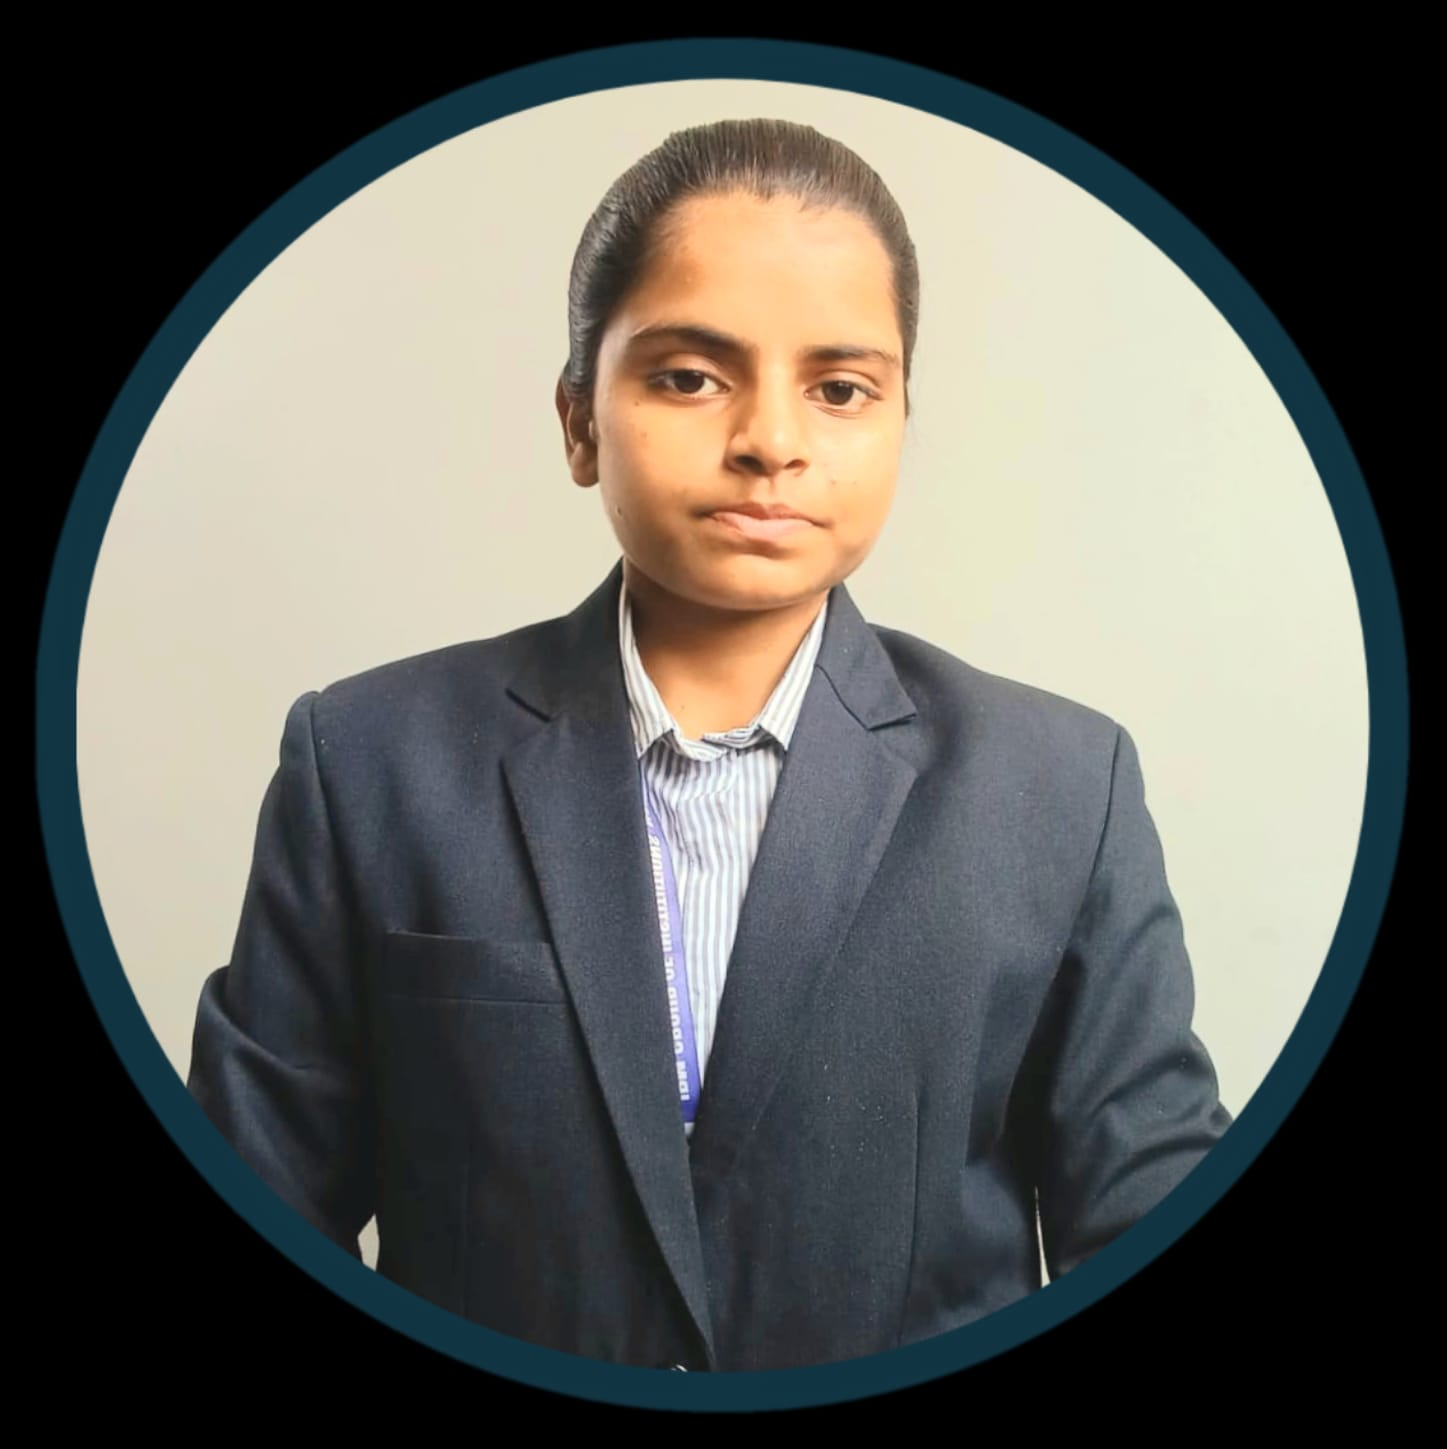
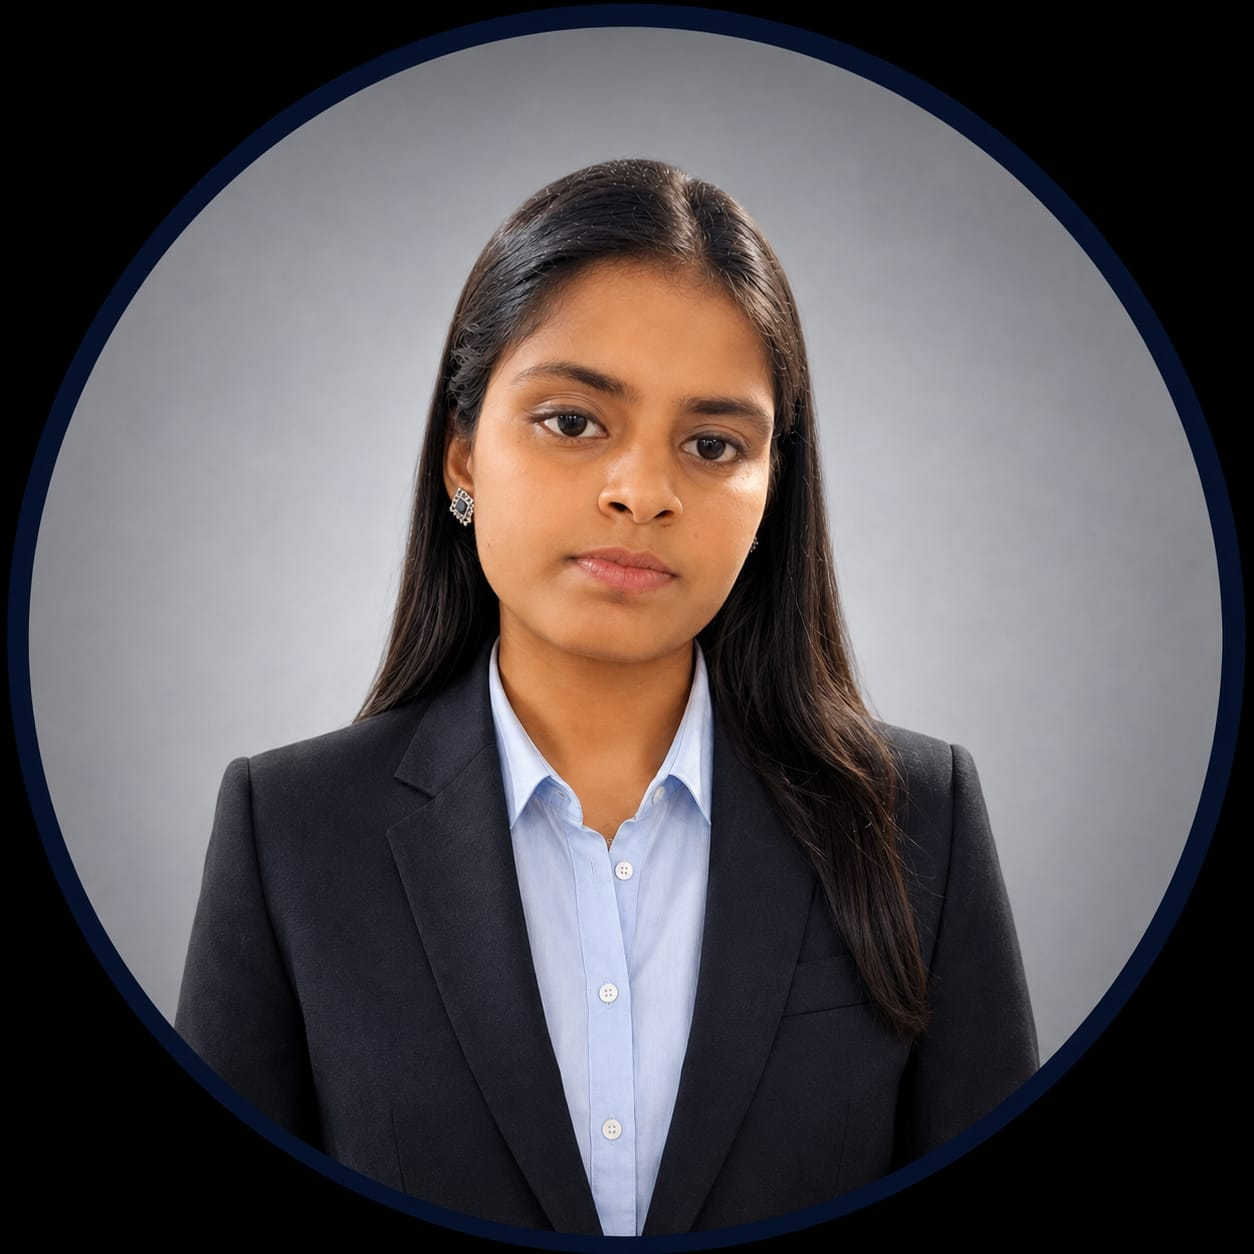
Add Coming Soon status to projects

diff --git a/templates/index.html b/templates/index.html
@@ -237,6 +237,7 @@ content="https://your-portfolio-url.onrender.com/">
               <div class="tag">POWER BI</div>
             </div>
             <h2>Sales Performance Dashboard</h2>
+            <p class="coming-soon">Coming Soon</p>
             <p class="desc">
               Designed an interactive dashboard to analyze sales, profit,
               regional performance, and KPIs for better business
@@ -266,6 +267,7 @@ content="https://your-portfolio-url.onrender.com/">
               <div class="tag">PYTHON</div>
             </div>
             <h2>Customer Sales Analysis</h2>
+            <p class="coming-soon">Coming Soon</p>
             <p class="desc">
               Cleaned and analyzed customer sales data to identify trends,
               top-selling products, and monthly sales performance.
@@ -293,6 +295,7 @@ content="https://your-portfolio-url.onrender.com/">
               <div class="tag">SQL</div>
             </div>
             <h2>SQL Business Insights</h2>
+            <p class="coming-soon">Coming Soon</p>
             <p class="desc">
               Queried business databases to generate reports, analyze customer
               behavior, and extract actionable business insights.
@@ -321,6 +324,7 @@ content="https://your-portfolio-url.onrender.com/">
               <div class="tag">EXCEL</div>
             </div>
             <h2>Employee Performance Dashboard</h2>
+            <p class="coming-soon">Coming Soon</p>
             <p class="desc">
               Created an Excel dashboard with charts, KPIs, and reports to
               monitor employee performance and productivity.

diff --git a/templates/admin.html b/templates/admin.html
@@ -8,7 +8,7 @@
             font-family: Arial;
             background: #081b29;
             color: white;
-            padding: 30px;
+           padding: 30px;
         }
 
         h1, h2, h3{
